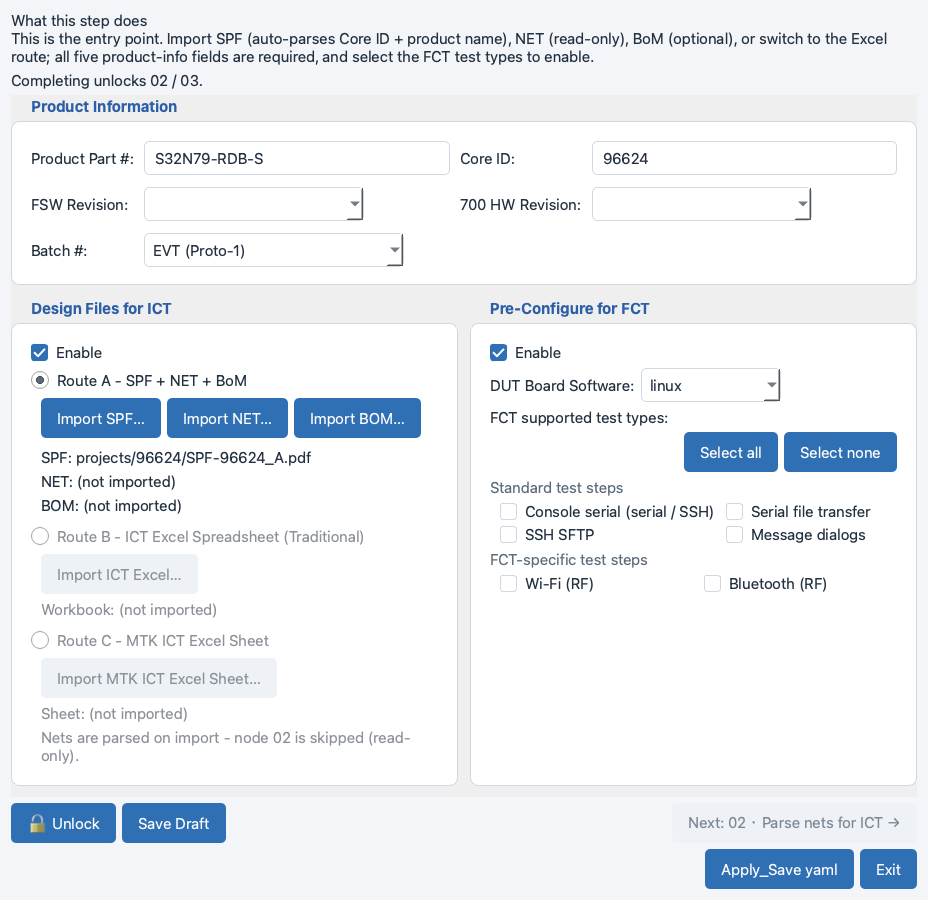
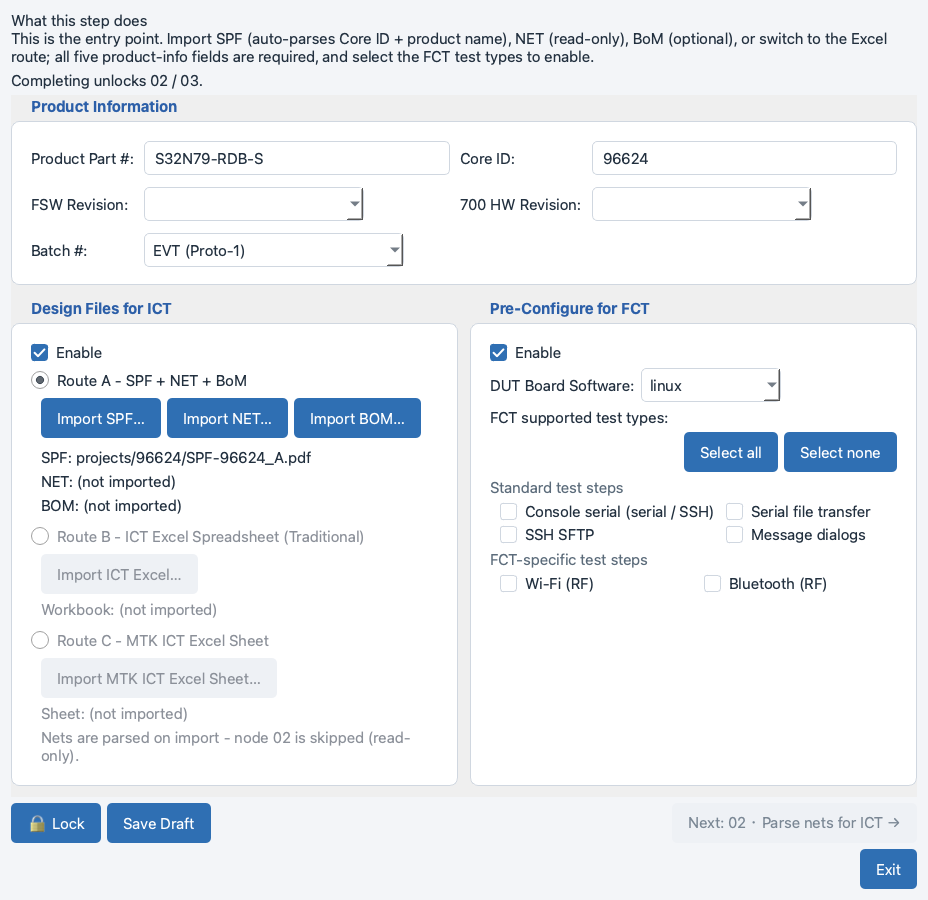
M135: padlock names the action and only node 07 writes the YAML

Changed region(s): [[0.75, 0.9333, 0.9375, 0.9956], [0.0312, 0.8711, 0.25, 0.9333]]

diff --git a/mtkgui/gui/yamlbuild/wizard_shell.py b/mtkgui/gui/yamlbuild/wizard_shell.py
@@ -484,12 +484,12 @@ class YamlBuildWizard(QWidget):
             """Paint the window from the CURRENT lock / editability state."""
             locked_now = self.model.is_locked(key)
             if locked_now:
-                btn_lock.setText("🔒 Locked")
+                btn_lock.setText("🔓 Unlock")
                 btn_lock.setToolTip(
                     "This module is locked (complete + validated). Click "
                     "to unlock it - every later module unlocks with it.")
             else:
-                btn_lock.setText("🔓 Unlock")
+                btn_lock.setText("🔒 Lock")
                 btn_lock.setToolTip(
                     "Click to check this module (validation, foreground "
                     "progress) and lock it as completed.")
@@ -508,10 +508,15 @@ class YamlBuildWizard(QWidget):
         btn_lock.clicked.connect(
             lambda: self._toggle_lock(key, panel, sync_actions, status))
         sync_actions()
-        btns = QDialogButtonBox(QDialogButtonBox.Ok | QDialogButtonBox.Cancel)
-        ok = btns.button(QDialogButtonBox.Ok)
-        ok.setText("Apply_Save yaml")
-        ok.setToolTip("Close the node; values stay in the configuration")
+        # M135: ``Apply_Save yaml`` belongs to node 07 only - every other
+        # node closes with ``Exit`` (values are already in the model).
+        style = (QDialogButtonBox.Ok | QDialogButtonBox.Cancel
+                 if key == "apply_save" else QDialogButtonBox.Cancel)
+        btns = QDialogButtonBox(style)
+        if key == "apply_save":
+            ok = btns.button(QDialogButtonBox.Ok)
+            ok.setText("Apply_Save yaml")
+            ok.setToolTip("Close the node; values stay in the configuration")
         cancel = btns.button(QDialogButtonBox.Cancel)
         cancel.setText("Exit")
         cancel.setToolTip("Close the node without changing the configuration")
@@ -545,11 +550,10 @@ class YamlBuildWizard(QWidget):
         dlg.resize(min(width, int(avail.width() * 0.9)),
                    min(height, int(avail.height() * 0.9)))
         accepted = bool(dlg.exec())        # 1 = Apply_Save yaml, 0 = Exit
-        if accepted:
-            # M127: the dialog's own [Apply_Save yaml] now really applies -
-            # the panel's live values reach the model before the window
-            # closes (``Exit`` leaves the configuration untouched).
-            self._collect_panel_values(key)
+        # M135: nodes 01-06 close with ``Exit`` only, so the live panel
+        # values must reach the model on every close (node 07 keeps its
+        # ``Apply_Save yaml``, which writes the YAML file on top).
+        self._collect_panel_values(key)
         scroll.takeWidget()
         self._panel_host_lay.addWidget(panel)   # re-parent back after close
         self._refresh()

diff --git a/tests/yamlbuild/test_m135_node_lock_and_close.py b/tests/yamlbuild/test_m135_node_lock_and_close.py
@@ -1,0 +1,92 @@
+# -*- coding: utf-8 -*-
+"""M135: the padlock names the action, and only node 07 writes the YAML.
+
+* unlocked node  -> button reads ``Lock`` (click = validate + lock)
+* locked node    -> button reads ``Unlock`` (click = release, cascade)
+* nodes 01-06 close with ``Exit`` only; ``Apply_Save yaml`` sits on 07
+"""
+from __future__ import annotations
+
+import pytest
+
+pytest.importorskip("PySide6")
+
+from PySide6.QtCore import QTimer
+from PySide6.QtWidgets import QApplication, QPushButton
+
+from mtkgui.gui.yamlbuild.model import YamlBuildModel
+from mtkgui.gui.yamlbuild.wizard_shell import YamlBuildWizard
+
+
+@pytest.fixture(scope="module")
+def qapp():
+    return QApplication.instance() or QApplication([])
+
+
+def _open(wizard, key):
+    seen = {}
+
+    def grab():
+        dialog = QApplication.activeModalWidget()
+        if dialog is None:          # pragma: no cover - defensive
+            return
+        seen["dlg"] = dialog
+        dialog.reject()
+
+    QTimer.singleShot(0, grab)
+    wizard._open_step_dialog(key)
+    return seen["dlg"]
+
+
+def _padlock(dialog) -> QPushButton:
+    for button in dialog.findChildren(QPushButton):
+        text = button.text()
+        if text.endswith(" Lock") or text.endswith(" Unlock"):
+            return button
+    raise AssertionError("no padlock button in the node window")
+
+
+def _button_texts(dialog):
+    return [b.text() for b in dialog.findChildren(QPushButton)]
+
+
+def test_padlock_reads_lock_while_open(qapp):
+    wizard = YamlBuildWizard(model=YamlBuildModel())
+    try:
+        dialog = _open(wizard, "design_input")
+        assert not wizard.model.is_locked("design_input")
+        assert _padlock(dialog).text() == "🔒 Lock"
+    finally:
+        wizard.deleteLater()
+
+
+def test_padlock_reads_unlock_while_locked(qapp):
+    model = YamlBuildModel()
+    model.set_locked("design_input", True)
+    wizard = YamlBuildWizard(model=model)
+    try:
+        dialog = _open(wizard, "design_input")
+        assert _padlock(dialog).text() == "🔓 Unlock"
+    finally:
+        wizard.deleteLater()
+
+
+def test_nodes_01_to_06_have_no_apply_save(qapp):
+    wizard = YamlBuildWizard(model=YamlBuildModel())
+    try:
+        for key in ("design_input", "firmware", "equipment"):
+            dialog = _open(wizard, key)
+            assert "Apply_Save yaml" not in _button_texts(dialog), key
+            assert "Exit" in _button_texts(dialog), key
+    finally:
+        wizard.deleteLater()
+
+
+def test_node_07_keeps_apply_save(qapp):
+    wizard = YamlBuildWizard(model=YamlBuildModel())
+    try:
+        dialog = _open(wizard, "apply_save")
+        assert "Apply_Save yaml" in _button_texts(dialog)
+        assert "Exit" in _button_texts(dialog)
+    finally:
+        wizard.deleteLater()

diff --git a/tests/yamlbuild/test_m127_node_actions.py b/tests/yamlbuild/test_m127_node_actions.py
@@ -85,7 +85,9 @@ def test_node_window_offers_save_draft_and_next(qapp):
         assert "Save Draft" in texts
         # Next names its target node (same wording the operator knows)
         assert any(t.startswith("Next: 02") for t in texts), texts
-        assert texts[-2:] == ["Apply_Save yaml", "Exit"]
+        # M135: node 07 alone carries the YAML write - 01-06 close on Exit
+        assert texts[-1] == "Exit", texts
+        assert "Apply_Save yaml" not in texts, texts
         assert dialog.parent() is wizard
     finally:
         wizard.deleteLater()
@@ -98,6 +100,7 @@ def test_last_node_has_no_next(qapp):
         texts = [b.text() for b in _dialog_buttons(dialog)]
         assert "Save Draft" in texts
         assert not any(t.startswith("Next:") for t in texts), texts
+        assert texts[-2:] == ["Apply_Save yaml", "Exit"], texts
         assert wizard._next_node_key("apply_save") is None
     finally:
         wizard.deleteLater()

diff --git a/docs/help/09_yaml_build.md b/docs/help/09_yaml_build.md
@@ -41,13 +41,14 @@ quietly.
   YAML it generates.
 - **A star** on the node means it has been applied and validated at least
   once in this project. Stars persist with the project.
-- **Every node dialog has a padlock** (M128) on its right-hand action row,
-  showing the current state: `Unlock` while the module is open,
-  `Locked` once it has been checked. Clicking it runs the full validation
-  behind a foreground progress bar, so a long check never freezes the
-  window; a failed check lists the findings in a message box and leaves
-  the node unlocked. Locking means *this module's input is finished and
-  still valid* - only then does `Next` become available.
+- **Every node dialog has a padlock** (M128, wording fixed in M135) on its
+  right-hand action row, and it always names the action, not the state:
+  `Lock` while the module is open, `Unlock` once it has been checked.
+  Clicking `Lock` runs the full validation behind a foreground progress
+  bar, so a long check never freezes the window; a failed check lists the
+  findings in a message box and leaves the node unlocked and editable.
+  Locking means *this module's input is finished and still valid* - only
+  then does `Next` become available.
 - **Gating follows the padlocks, not the clock**: node 01 unlocks both
   02 and 03; either branch (02 parse or 03 firmware) unlocks 04
   Equipment Config; 04 unlocks 05 and 06 together; 05 or 06 unlocks 07.
@@ -57,6 +58,10 @@ quietly.
 - **Unlocking cascades forward**: releasing a node also releases every
   later node, so a changed upstream fact always re-opens the modules it
   feeds.
+- **`Apply_Save yaml` exists on node 07 only** (M135): nodes 01-06 write
+  what you type straight into the model and close with `Exit`, so there is
+  no per-node write button to press - the YAML file is written once, on
+  node 07.
 - **`Next` and `Save Draft` live inside the dialog** (M124 / M127). Node 01
   hands over to 02, 02 and 03 both hand over to 04, and 04 to 05. Node 07
   is the end of the chain and shows no `Next`; `Save Draft` is on every

diff --git a/docs/help/version_history.md b/docs/help/version_history.md
@@ -37,17 +37,21 @@ Entry format:
 
 ## Latest activity (2026-11)
 
-GUI head: **`0092b0a` (M133) - 2026-11-26**. Everything up to it is on
+GUI head: **`1df5caf` (M135) - 2026-11-26**. Everything up to it is on
 `origin/develop`; a bundle built from this commit runs the same test
 logic as the head.
 
+- `1df5caf` (M135) - the node padlock now names the action: `Lock` while
+  the module is open (click = validate + lock), `Unlock` once it is
+  locked. `Apply_Save yaml` is removed from nodes 01-06 - they close with
+  `Exit` and keep writing what you type into the model; the YAML file is
+  written on node 07 only.
+- `cf50079` (M134) - Route B is labelled `ICT Excel Spreadsheet
+  (Traditional)`.
 - `0092b0a` (M133) - User Guide rebuilt for the seven-node wizard:
   node 01-07 descriptions, node 02's two-table parse view, node 03-04-07
   pages, the three-page tab list, and every Yaml Build / Console
   screenshot re-shot from the current code.
-- Route B is now labelled `ICT Excel Spreadsheet (Traditional)`, so the
-  traditional per-net workbook cannot be mistaken for the MTK ICT sheet
-  route next to it.
 - `d1c0248` (M132) - Console drops the `Quick:` row: the dropdown plus
   `Save Cmd` / `Clear Cmd` and the `quick_commands.py` store are gone;
   `Font...` moves to the right end of the Send row, Tab completion keeps
